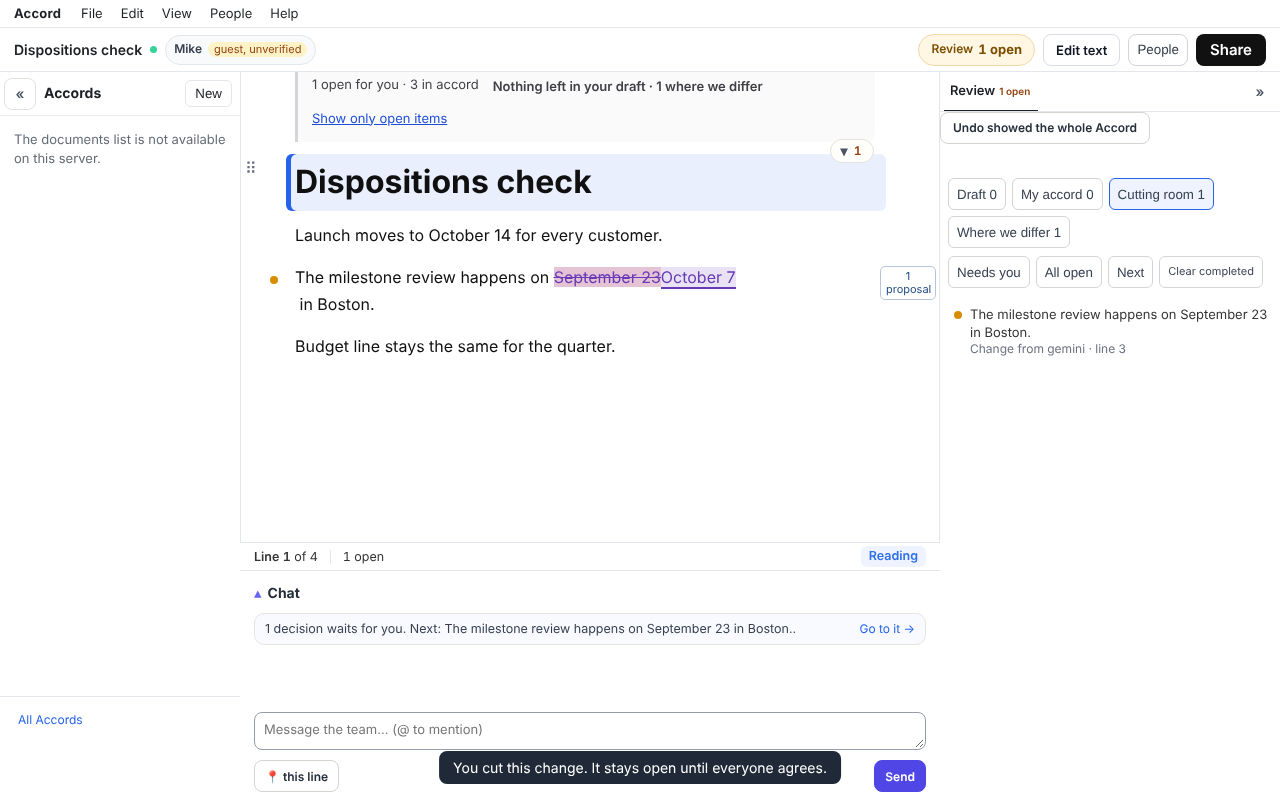
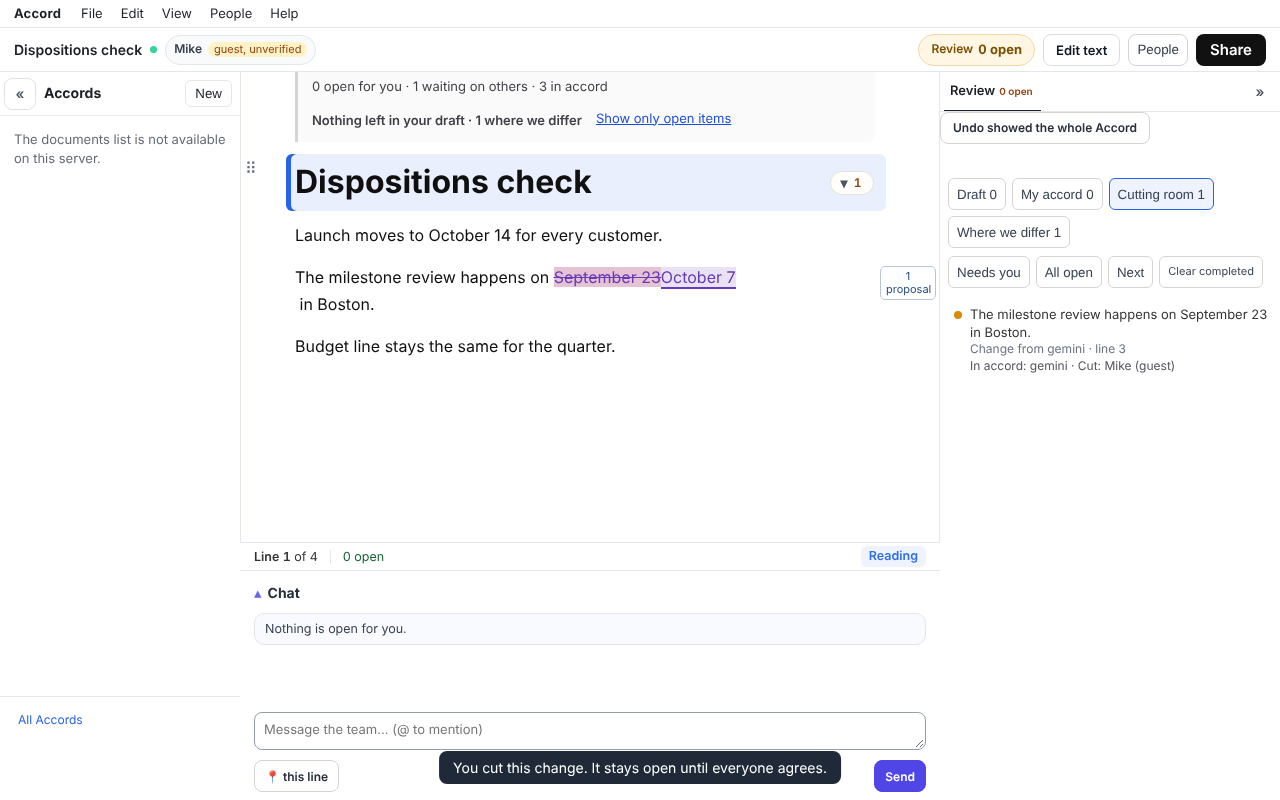
Accord: stance on each change in the Review list ("In accord: gemini · Cut: Mike")
On a multi-party Accord each open row in the Review list names who has its
change in their accord and who cut it; everyone not named still has it in
their draft. stanceText (src/shared/dispositions.ts) builds the line from the
dispositions report, with the page's display names.

Verified: npm test green (18 dispositions unit tests); dispositions-check
16/16 in both styles, asserting the stance on the cut row; local-write-resync
-check 28/28; click-edit-check pass; dialect-check 18/18; no new tsc errors
in touched files.

Seat: ccc-adhoc
Claude-Session: https://claude.ai/code/session_01SZfXdBugJpH9PsPe6CXr5B

diff --git a/src/ui/navigator.ts b/src/ui/navigator.ts
@@ -25,6 +25,8 @@ export interface NavigatorHost {
   piles?(): Record<PileFilter, string[]> | null;
   /** Multi-party Accords: send these proposals back to this reader's draft. */
   toDraft?(markIds: string[]): void;
+  /** Multi-party Accords: "In accord: Mike, claude · Cut: gemini" for a row's changes, or null. */
+  stance?(markIds: readonly string[]): string | null;
 }
 
 function el<K extends keyof HTMLElementTagNameMap>(tag: K, className?: string, text?: string): HTMLElementTagNameMap[K] {
@@ -351,12 +353,14 @@ export class NavigatorUI {
       const discussion = row.done && row.line < 0 ? convertedDiscussionFor(row.markIds, lm.allThreads()) : null;
       const label = row.done ? (discussion ? convertedRowLabel(discussion.lineIndex) : row.line < 0 ? 'Done · passage removed' : `Done · line ${row.line + 1}`)
         : `${row.fresh ? 'New · ' : ''}${needsYouLabel(this.scope === 'all-open' ? { ...row, count: 1 } : row, actor => lm.displayName(actor), lm.me())}`;
-      if (b.dataset.label !== title + label) {
+      const stance = row.done ? null : this.host.stance?.(row.markIds ?? []) ?? null;
+      if (b.dataset.label !== title + label + (stance ?? '')) {
         const dot = el('span', 'anv-dot'); dot.setAttribute('aria-hidden', 'true');
         const body = el('span', 'anv-issue-body');
         body.append(el('span', 'anv-issue-title', title), el('small', 'anv-issue-kind', label));
+        if (stance) { const s = el('small', 'anv-issue-stance', stance); s.dataset.accordStance = ''; body.append(s); }
         b.replaceChildren(dot, body);
-        b.dataset.label = title + label;
+        b.dataset.label = title + label + (stance ?? '');
       }
       b.onclick = () => {
         this.keyHint.textContent = '';

diff --git a/src/tests/dispositions.test.ts b/src/tests/dispositions.test.ts
@@ -12,6 +12,7 @@ import {
   dispositionStatusText,
   summarizeForViewer,
   viewerPiles,
+  stanceText,
   PILE_FILTER_POLICY,
   evaluateProposal,
   evaluateProposals,
@@ -223,6 +224,22 @@ test('the pile switch: one person\'s draft, accord, cutting room and where we di
   assert.deepEqual(viewerPiles(report, 'newcomer'), { draft: ['a', 'b', 'c'], accord: [], 'cutting-room': [], differ: ['c'] });
   assert.deepEqual(PILE_FILTER_POLICY.filters.map(f => f.label), ['Draft', 'My accord', 'Cutting room', 'Where we differ']);
   assert.equal(PILE_FILTER_POLICY.defaultFilter, null);
+});
+
+test('stance on a change names who has it in their accord and who cut it', () => {
+  const report = {
+    multiParty: true,
+    proposals: [
+      { markId: 'a', proposer: 'ai:claude', status: 'open', openFor: ['ai:gemini'], promotedBy: ['ai:claude'], cutBy: ['mike@example.com'] },
+      { markId: 'b', proposer: 'ai:claude', status: 'open', openFor: ['ai:gemini', 'mike@example.com'], promotedBy: [] },
+    ],
+    whereWeDiffer: ['a'],
+    fullAccord: false,
+  };
+  const name = (a: string) => a === 'mike@example.com' ? 'Mike' : a.replace(/^ai:/, '');
+  assert.equal(stanceText(report, ['a'], name), 'In accord: claude · Cut: Mike');
+  assert.equal(stanceText(report, ['b'], name), null);
+  assert.equal(stanceText(report, ['zzz'], name), null);
 });
 
 console.log(`\n${passed} dispositions tests passed`);

diff --git a/src/editor/index.ts b/src/editor/index.ts
@@ -238,7 +238,7 @@ import { normalizeQuote, extractMarks, embedMarks, getThread, migrateProvenanceT
 import { proofMarkHandler } from '../formats/remark-proof-marks';
 import { remarkProofMarksPlugin } from './schema/remark-proof-marks-plugin';
 import { getCurrentActor, setCurrentActor as setCurrentActorValue, normalizeActor } from './actor';
-import { dispositionStatusText, summarizeForViewer, viewerPiles, type DispositionsReportView, type PileFilter } from '../shared/dispositions';
+import { dispositionStatusText, stanceText, summarizeForViewer, viewerPiles, type DispositionsReportView, type PileFilter } from '../shared/dispositions';
 
 /** How often a multi-party Accord's count line re-reads the server (others decide too). */
 const DISPOSITIONS_REFRESH_MS = 10_000;
@@ -4410,6 +4410,7 @@ class ProofEditorImpl implements ProofEditor {
         slug: () => shareClient.getSlug(),
         piles: () => this.dispositionPiles(),
         toDraft: (ids) => this.returnToDraft(ids),
+        stance: (ids) => this.shareDispositions ? stanceText(this.shareDispositions, ids, actor => lineMarks.displayName(actor)) : null,
         suggestChange: (line) => {
           if (EDIT_SESSION_POLICY.privateDrafts) return this.editGesture?.open(line) ?? false;
           this.readingWalk?.focusDocument(line);

diff --git a/src/shared/dispositions.ts b/src/shared/dispositions.ts
@@ -324,3 +324,24 @@ export function dispositionStatusText(summary: DispositionSummary): string {
   else if (!summary.observer && summary.draft === 0) parts.push('waiting on others');
   return parts.join(' · ');
 }
+
+/**
+ * Stance on a change, for the Review row: who has it in their accord and who cut it, in names.
+ * Everyone else still has it in their draft. Null when nobody has decided anything beyond proposing.
+ */
+export function stanceText(report: DispositionsReportView, markIds: readonly string[], name: (actor: string) => string = a => a): string | null {
+  const wanted = new Set(markIds);
+  const promoted = new Map<string, string>();
+  const cut = new Map<string, string>();
+  for (const p of report.proposals) {
+    if (!wanted.has(p.markId) || (p.status ?? 'open') !== 'open') continue;
+    for (const a of p.promotedBy ?? []) promoted.set(actorKey(a), a);
+    for (const a of p.cutBy ?? []) cut.set(actorKey(a), a);
+  }
+  if (promoted.size === 0 && cut.size === 0) return null;
+  const list = (m: Map<string, string>) => [...m.values()].map(name).join(', ');
+  const parts: string[] = [];
+  if (promoted.size) parts.push(`In accord: ${list(promoted)}`);
+  if (cut.size) parts.push(`Cut: ${list(cut)}`);
+  return parts.join(' · ');
+}

diff --git a/src/ui/reading-walk.ts b/src/ui/reading-walk.ts
@@ -115,6 +115,8 @@ export interface ReadingWalkHost {
   piles?(): Record<PileFilter, string[]> | null;
   /** Multi-party Accords: send these proposals back to the reader's draft. */
   toDraft?(markIds: string[]): void;
+  /** Multi-party Accords: who has a row's changes in their accord and who cut them. */
+  stance?(markIds: readonly string[]): string | null;
 }
 
 const PHONE_QUERY = '(max-width: 700px)';
@@ -302,6 +304,7 @@ export class ReadingWalkUI {
       focusDocument: (line) => this.focusDocument(line),
       piles: () => this.host.piles?.() ?? null,
       toDraft: this.host.toDraft ? (ids) => this.host.toDraft?.(ids) : undefined,
+      stance: (ids) => this.host.stance?.(ids) ?? null,
     }, saved.reviewTab ?? saved.leftTab);
     this.buildRails();
   }

diff --git a/src/ui/open-view.css b/src/ui/open-view.css
@@ -120,3 +120,4 @@ body.amb-on #share-banner .share-pill-hidden { display: none !important; }
 .anv-pile-tools[hidden] { display: none; }
 .anv-pile-tools button { min-height: 32px; padding: 2px 8px; border: 1px solid #d4d4d8; border-radius: 6px; background: white; color: #374151; cursor: pointer; }
 .anv-pile-tools button[aria-pressed="true"] { background: #eef3ff; border-color: #2563eb; }
+.anv-issue-stance { display: block; color: #52525b; font-size: 12px; }
